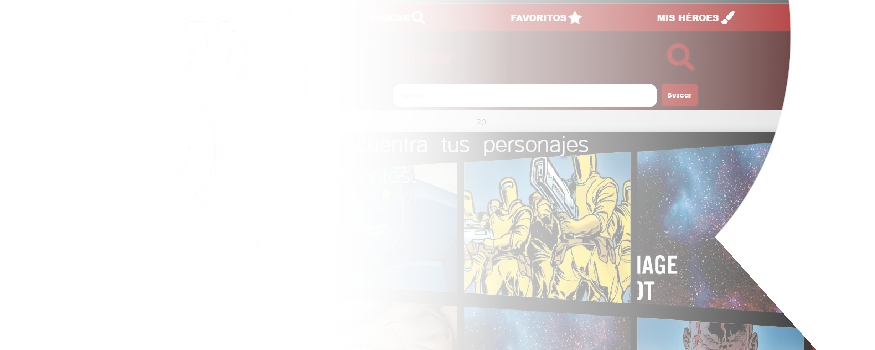
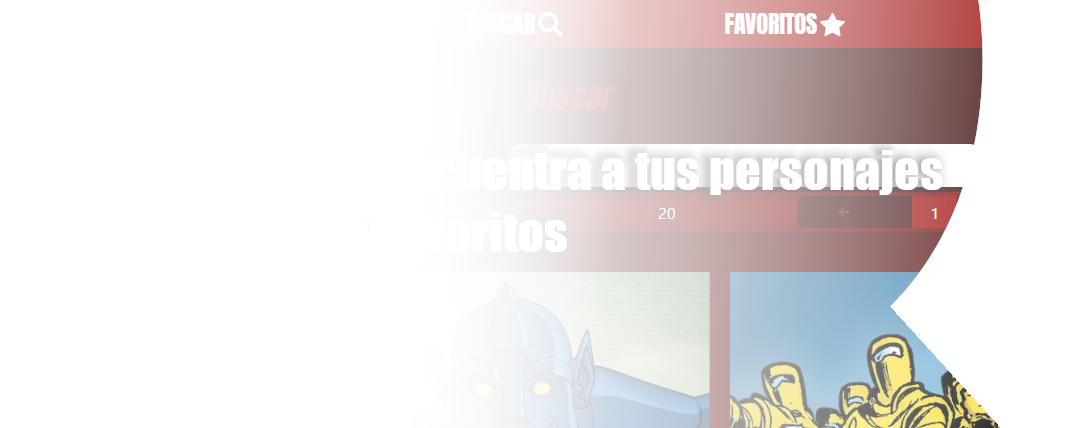
imagenes de compoente slider actualizadas y mejoradas, vinsuloa marvel.com añadido en menu lateral, detalles retocados en interfáz de formularios

Changed region(s): [[0.4937, 0.0, 0.9257, 1.0]]

diff --git a/components/LateralMenu/index.jsx b/components/LateralMenu/index.jsx
@@ -9,6 +9,7 @@ import {
   MdLightMode,
   MdNightlight,
 } from "react-icons/md";
+import {FaExternalLinkAlt} from "react-icons/fa";
 import styles from "./style/LateralMenu.module.css";
 
 export const LateralMenu = ({ open, open_function }) => {
@@ -32,11 +33,11 @@ export const LateralMenu = ({ open, open_function }) => {
         <ul className={styles.list}>
           <li className={`${styles.item_list}`}>
             <button className={styles.btn_exit} onClick={(e) => handleClick(e)}>
-              <MdOutlineClose size={30} />
+              <MdOutlineClose size={30} className={styles.icons} />
             </button>
           </li>
           <li className={styles.item_list} onClick={goProfile}>
-            <MdManageAccounts size={30} />
+            <MdManageAccounts size={30} className={styles.icons} />
             MI CUENTA
           </li>
           <li
@@ -46,13 +47,17 @@ export const LateralMenu = ({ open, open_function }) => {
           >
             <MdNightlight
               size={30}
-              className={`${theme === "light" && styles.hide}`}
+              className={`${theme === "light" && styles.hide} ${styles.icons}`}
             />
             <MdLightMode
               size={30}
-              className={`${theme === "dark" && styles.hide}`}
+              className={`${theme === "dark" && styles.hide} ${styles.icons}`}
             />
             TEMA
+          </li>
+          <li className={styles.item_list}>
+            <FaExternalLinkAlt size={28} className={styles.icons}/>
+            <a href="https://marvel.com" target="_blank" rel="noopener noreferrer" className={styles.hyperlink}>MARVEL.COM</a>
           </li>
         </ul>
       </nav>

diff --git a/components/SlideBanner.jsx b/components/SlideBanner.jsx
@@ -30,15 +30,15 @@ export const SlideBanner = () => {
       </button>
       <section className={styles.slider} ref={sliderPanel}>
         <article className={styles.section}>
-          <Image src={'/buscarBanner.webp'} alt='Buscar banner' fill={true} size='(max-width: 750px) 100vw,
+          <Image src={'/buscarBanner.webp'} alt='Buscar banner' fill={true} sizes='(max-width: 750px) 100vw,
               70vw' priority />
         </article> 
         <article className={styles.section}>
-          <Image src={'/favoritosBanner.webp'} alt='Favoritos banner' fill={true} size='(max-width: 750px) 100vw,
+          <Image src={'/favoritosBanner.webp'} alt='Favoritos banner' fill={true} sizes='(max-width: 750px) 100vw,
               70vw' />
         </article> 
         <article className={styles.section}>
-          <Image src={'/misHeroesBanner.webp'} alt='Mis héroes banner' fill={true} size='(max-width: 750px) 100vw,
+          <Image src={'/misHeroesBanner.webp'} alt='Mis héroes banner' fill={true} sizes='(max-width: 750px) 100vw,
               70vw' />
         </article> 
       </section>

diff --git a/styles/Form.module.css b/styles/Form.module.css
@@ -7,8 +7,16 @@
   align-items: center;
   background-color: #0006;
 }
+.section_form{
+  height: 100%;
+  width: 100%;
+  margin: 0;
+  display: flex;
+  justify-content: center;
+  padding: .5rem;
+  box-sizing: border-box;
+}
 .form{
-  margin: 2rem 0 2rem 0;
   min-height: 70vh;
   min-width: 250px;
   min-width: 50vw;
@@ -21,13 +29,15 @@
   background-color: #fff;
   border-radius: 4px;
   box-shadow: 0 0 12px 2px #00000020;
-  margin: auto;
+  /* margin: auto; */
   box-sizing: border-box;
 }
 .title{
   font-size: larger;
   text-align: center;
   color: var(--colorPrimal);
+  font-family: 'Anton', Impact, sans-serif;
+
 }
 .input_form{
   width: 90%;

diff --git a/components/LateralMenu/style/LateralMenu.module.css b/components/LateralMenu/style/LateralMenu.module.css
@@ -35,10 +35,16 @@
   justify-content: center;
   align-items: center;
   font-size: large;
-  font-family: Impact, Haettenschweiler, 'Arial Narrow Bold', sans-serif;
+  font-family: 'Anton', Impact, sans-serif;
   font-weight: 300;
 }
-
+.hyperlink{
+  text-decoration: none;
+  color: #ffffff;
+}
+.icons{
+  margin-right: .3rem;
+}
 .item_list:nth-child(1){
   background-color: transparent;
   justify-content: flex-start;

diff --git a/pages/profile.jsx b/pages/profile.jsx
@@ -86,7 +86,7 @@ export default function Profile() {
         Esta acción es irreversible, ¿está seguro?
       </Modal>
       <PageLayout title="Profile" desc="Profile page">
-        <section>
+        <section className={styles.section_form}>
           <div className={styles.form}>
             <ul className={styles.list}>
               <li className={styles.item_list}>

diff --git a/styles/SlideBanner.module.css b/styles/SlideBanner.module.css
@@ -52,6 +52,7 @@
   background: var(--colorPrimal);
   position: relative;
 }
+
 @media screen and (max-width: 750px){
   .slider{
     grid-template-columns: repeat(auto-fill, minmax(100vw, 1fr));
